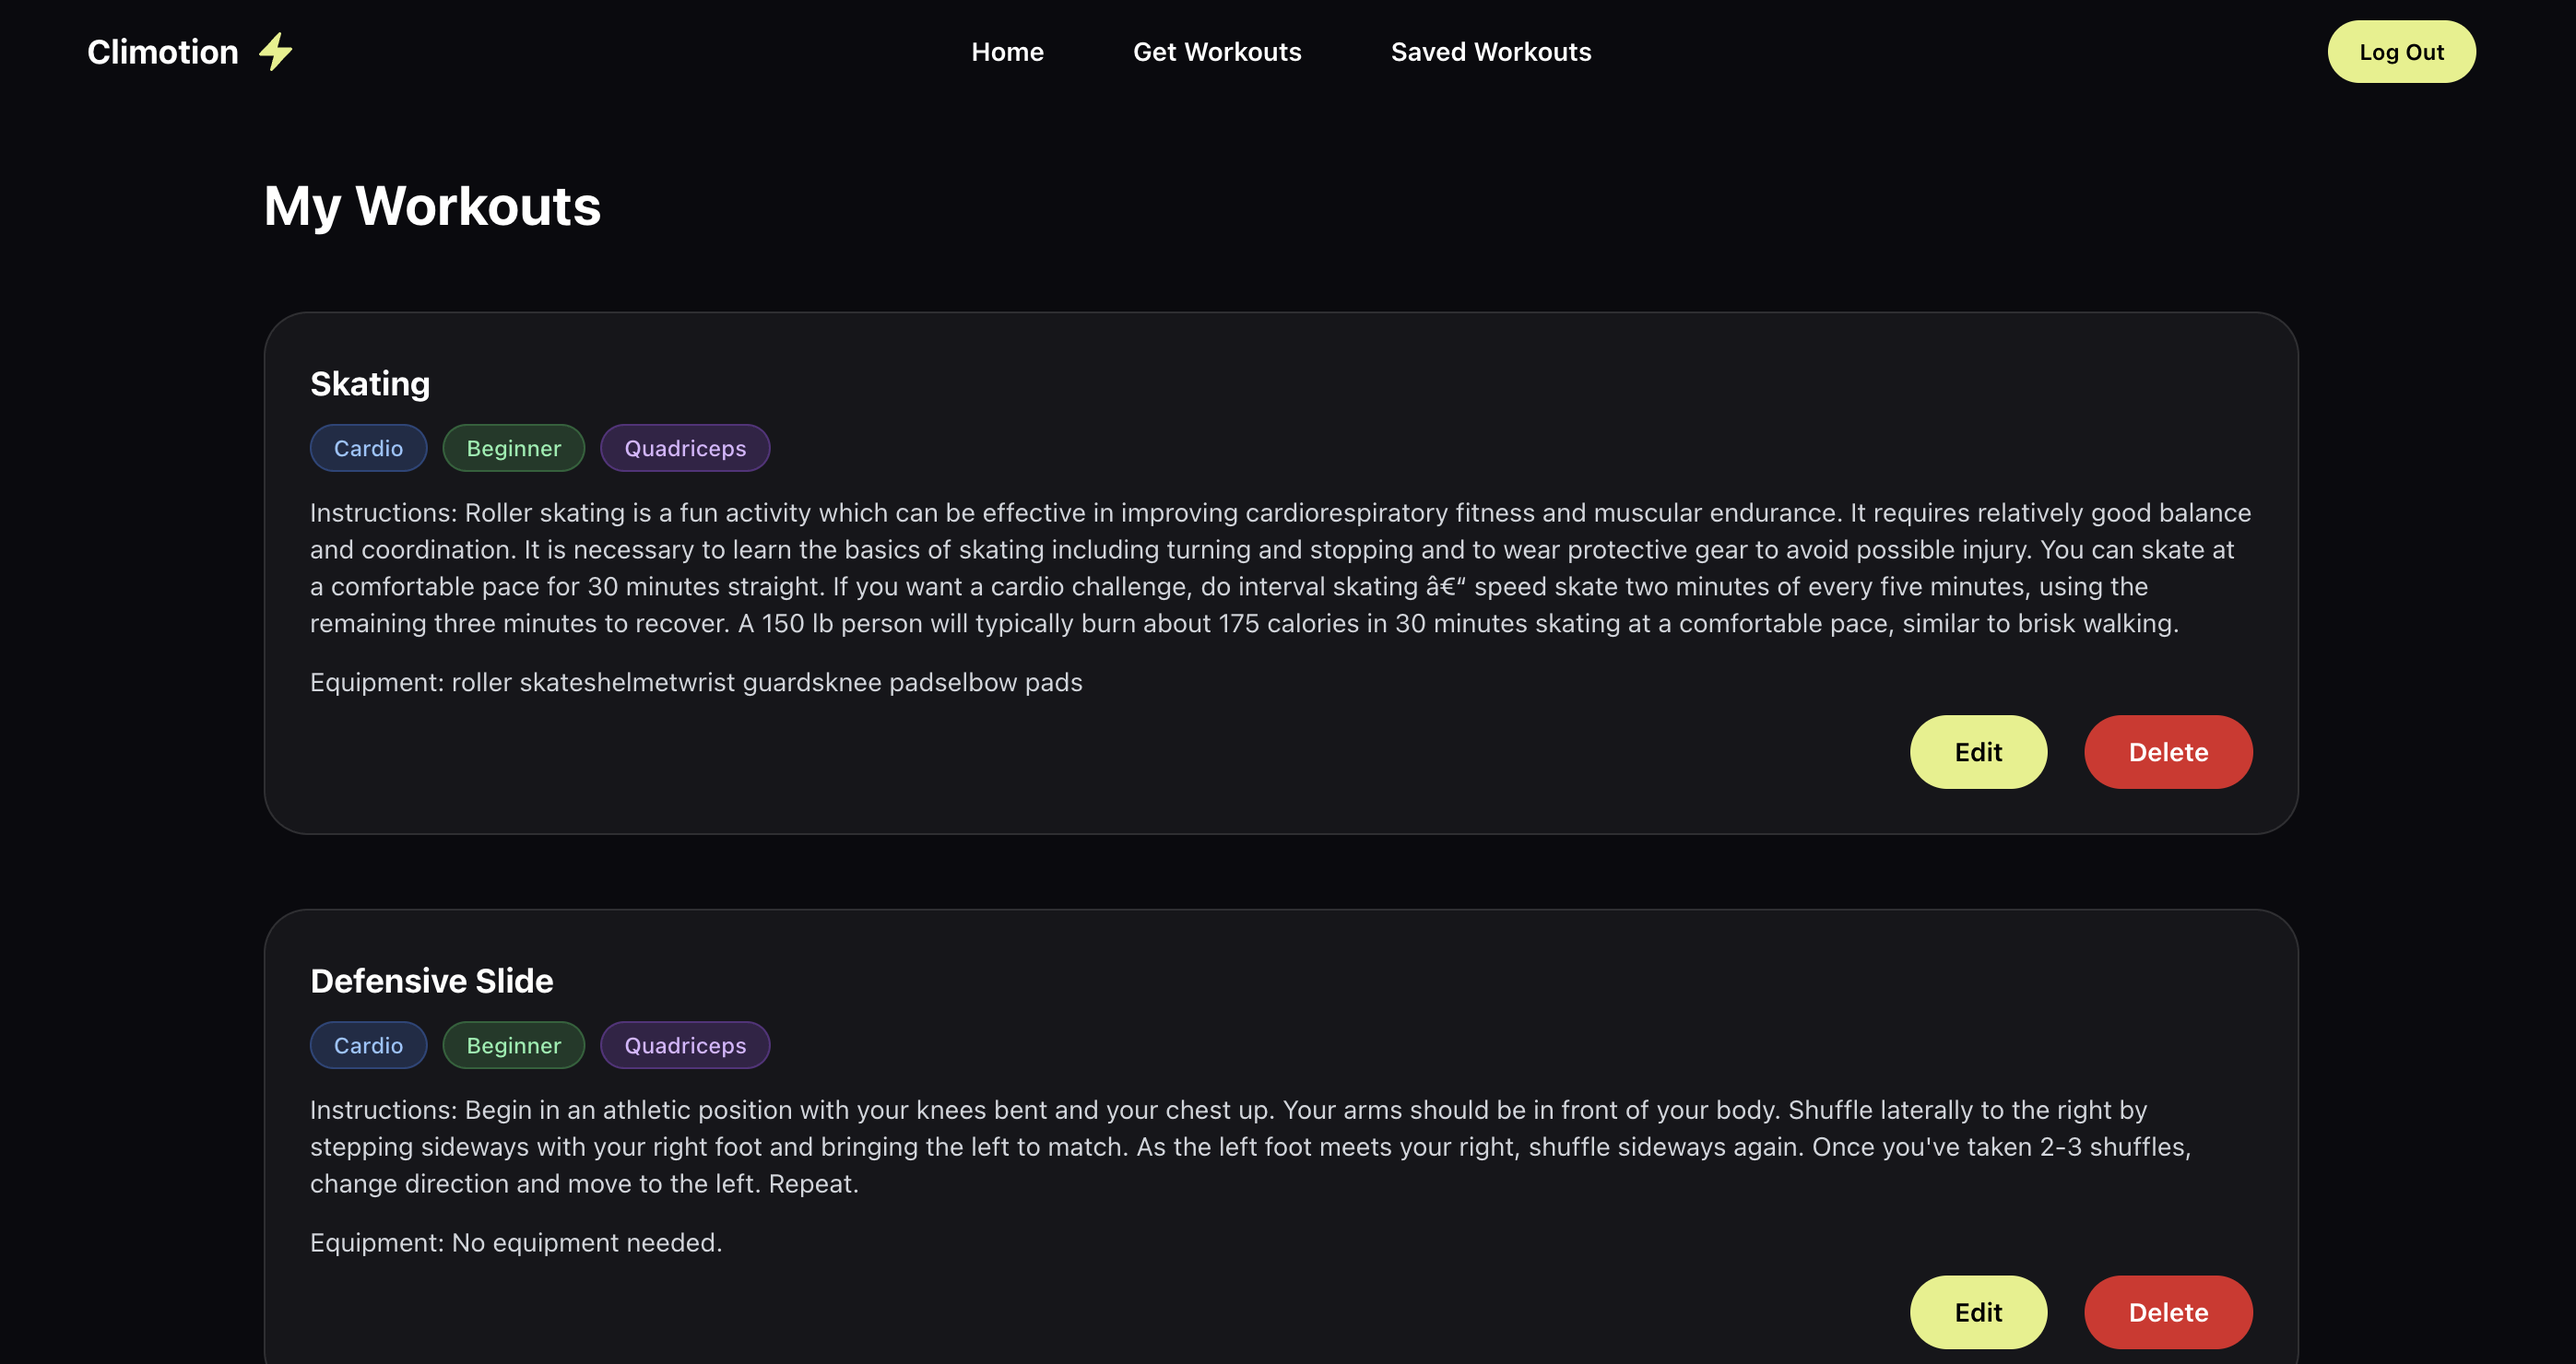
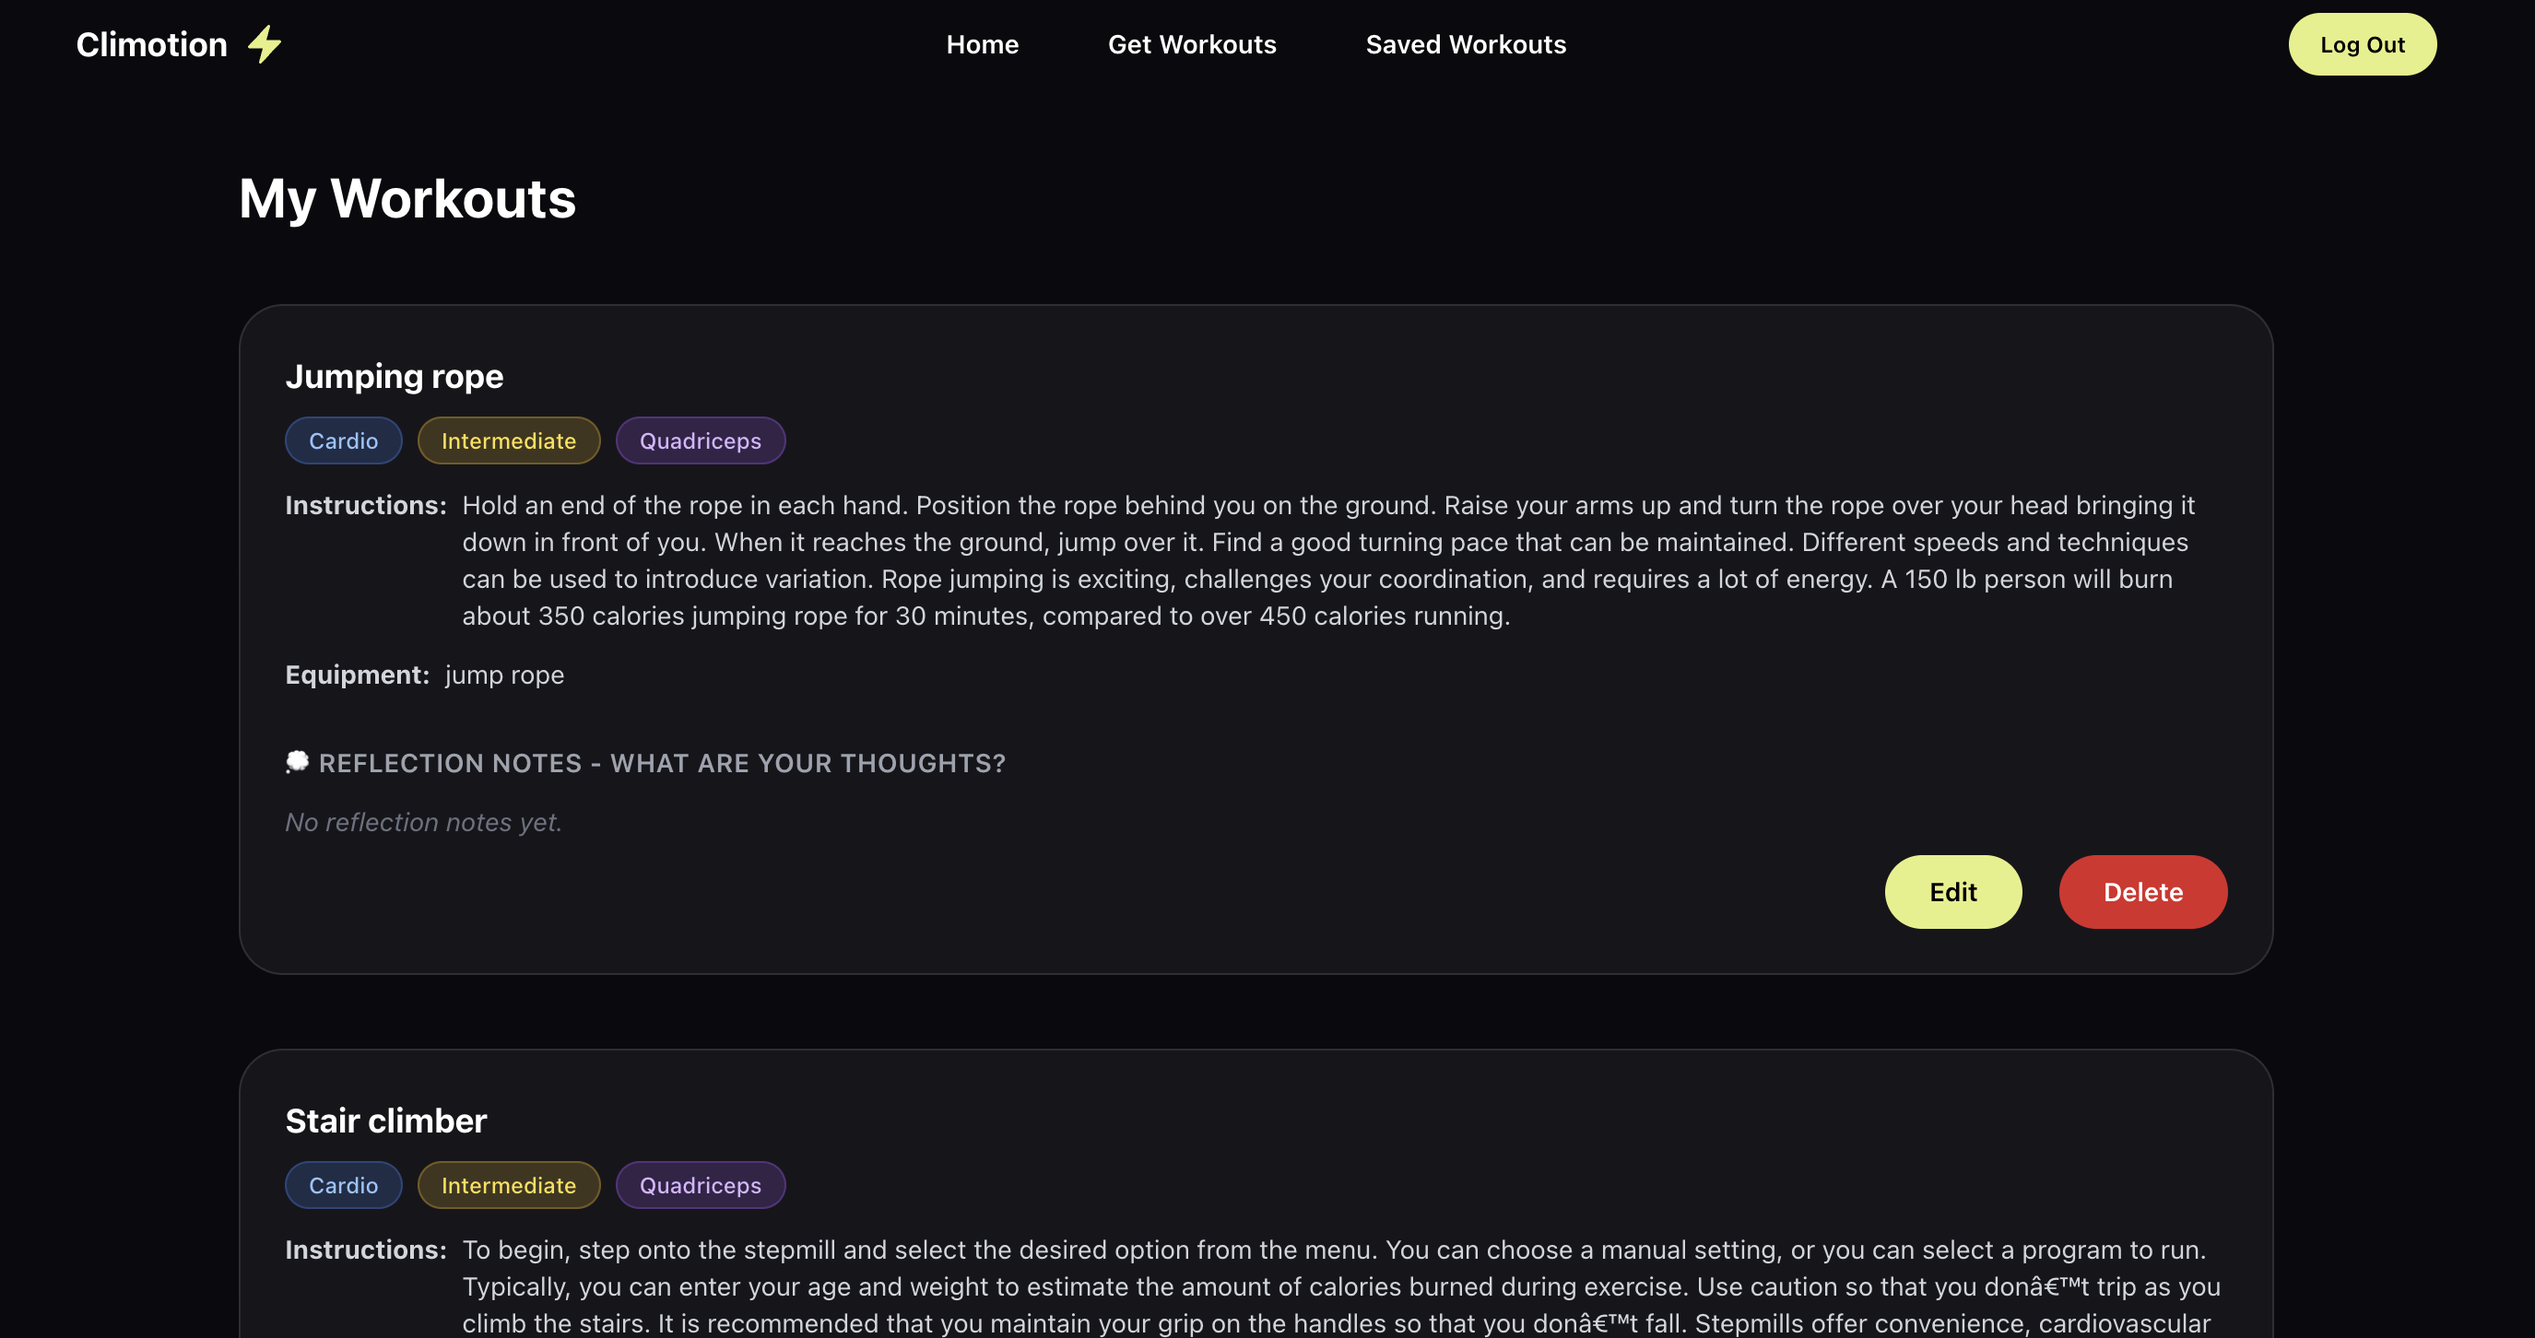
Update README with project structure and new screenshots

diff --git a/README.md b/README.md
@@ -2,7 +2,7 @@
 
 React frontend for Climotion. A weather-aware workout planner. Search by city to get current conditions and an indoor/outdoor workout recommendation. Live and actively being developed - new features in progress.
 
-**🔗 Live app:** [climotion-frontend.onrender.com](https://climotion-frontend.onrender.com) 
+**🔗 Live app:** [climotion-frontend.onrender.com](https://climotion-frontend.onrender.com) <br>
 **Backend repo:** [climotion](https://github.com/kjicodes/climotion)
 
 ## Tech Stack
@@ -23,7 +23,7 @@ React frontend for Climotion. A weather-aware workout planner. Search by city to
 
 ## Running Locally
 
-1. Clone and run the backend first, following its own README.
+1. Clone and run the backend first, following its own README: [climotion-backend](https://github.com/kjicodes/climotion)
 
 2. Create a `.env` file in this project's root:
 
@@ -38,6 +38,16 @@ React frontend for Climotion. A weather-aware workout planner. Search by city to
     npm start
     ```
 
+## Project Structure
+
+    src/
+    ├── api/              # Functions for calling the Django REST backend
+    ├── components/       # Reusable UI pieces, one folder per component (.jsx + .css)
+    ├── context/          # React Context providers (AuthContext for auth state)
+    ├── pages/            # Top-level route components (Home, Login, Register, Workouts, SavedWorkouts)
+    ├── App.js            # Route definitions
+    └── index.js          # App entry point
+
 ## Screenshots
 
 <img src="docs/screenshots/screenshot-home.png" alt="Climotion Home Page" width="600"/>
@@ -47,6 +57,8 @@ React frontend for Climotion. A weather-aware workout planner. Search by city to
 <img src="docs/screenshots/screenshot-workouts.png" alt="Climotion Workouts Page" width="600"/>
 
 <img src="docs/screenshots/screenshot-savedworkouts.png" alt="Climotion Saved Workouts Page" width="600"/>
+
+<img src="docs/screenshots/screenshot-savedworkouts-edit.png" alt="Climotion Edit Saved Workouts" width="600"/>
 
 <img src="docs/screenshots/screenshot-register.png" alt="Climotion Register Page" width="600"/>
 
